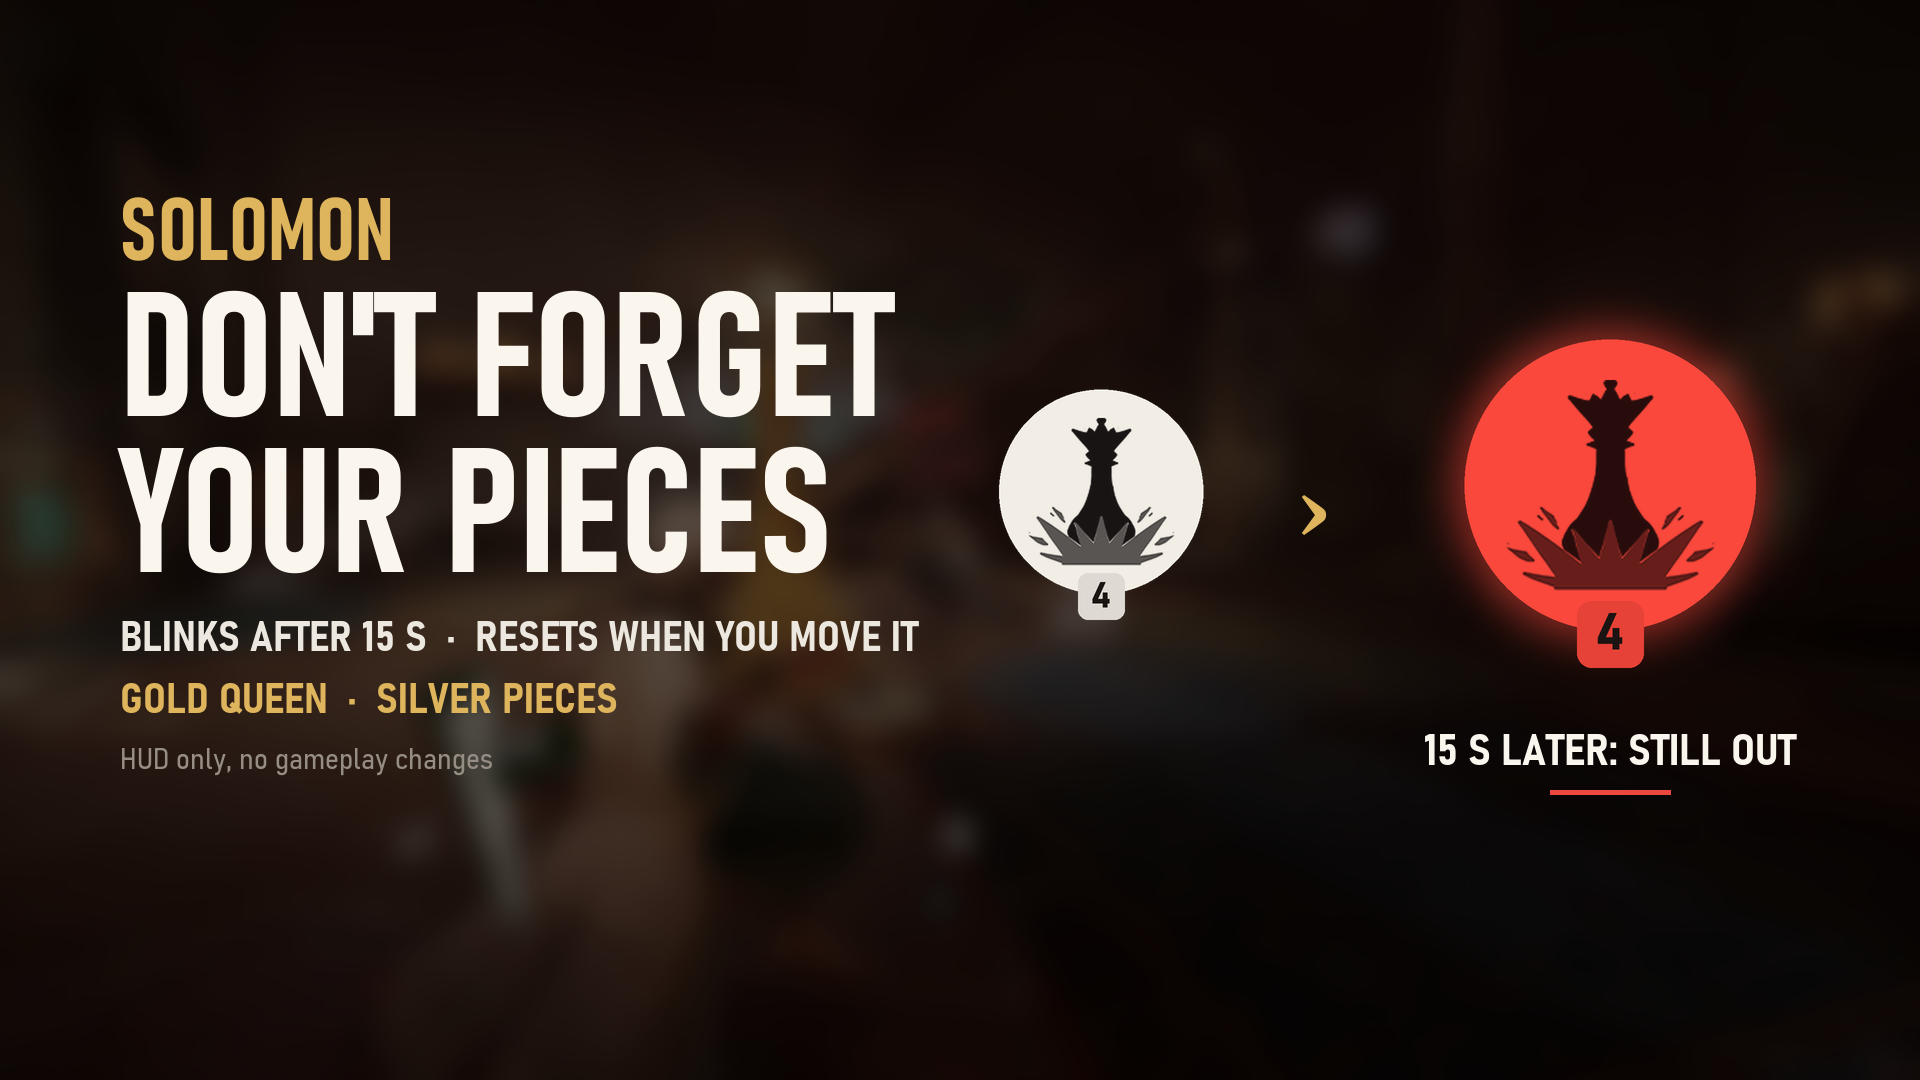
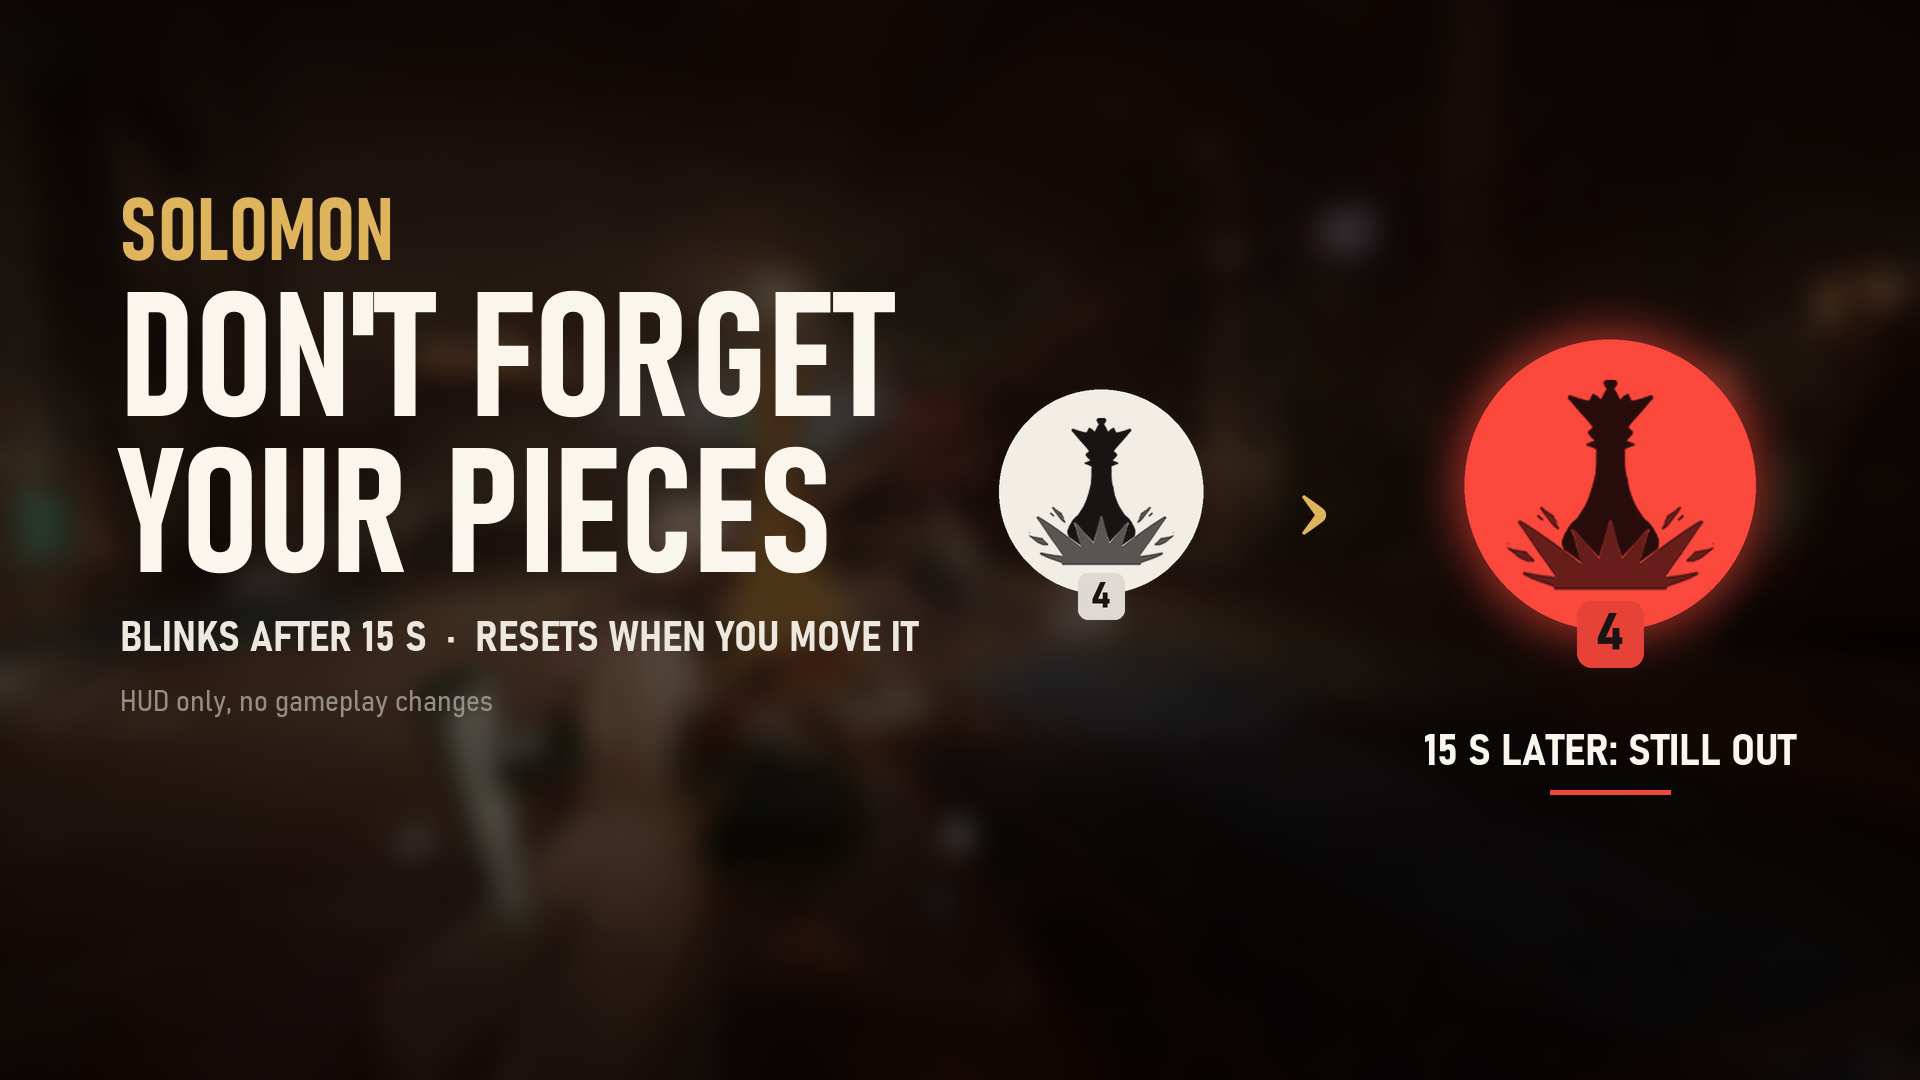
Cover without the gold queen / silver pieces line

Changed region(s): [[0.0625, 0.6111, 0.3438, 0.7333]]

diff --git a/showcase/make_cover.py b/showcase/make_cover.py
@@ -17,7 +17,7 @@ F = Path(r"C:\Windows\Fonts")
 
 TITLE = "Don't Forget Your Pieces"
 KICKER = "SOLOMON  ·  HUD MOD"
-SUB = "Icon blinks red after 15 s of an unused piece.  Gold Queen, silver pieces."
+SUB = "Icon blinks red after 15 s of an unused piece."
 CREAM = (246, 236, 214)
 GOLD = (222, 180, 92)
 RED = (236, 72, 64)
@@ -265,11 +265,8 @@ def style_e(w, h):
         d.text((x, y), line, font=tf, fill=(250, 246, 238))
         y += int(ts * 0.9)
     y += int(28 * k)
-    sf = bahn(int(42 * k), "Bold SemiCondensed")
     d.text((x, y), "BLINKS AFTER 15 S  ·  RESETS WHEN YOU MOVE IT", font=fit_font_var(d, "BLINKS AFTER 15 S  ·  RESETS WHEN YOU MOVE IT", int(42 * k), w - 2 * x), fill=(236, 232, 224))
-    y += int(62 * k)
-    d.text((x, y), "GOLD QUEEN  ·  SILVER PIECES", font=sf, fill=GOLD)
-    y += int(66 * k)
+    y += int(70 * k)                             # строка «GOLD QUEEN · SILVER PIECES» убрана: цвета фигур переехали в Neon Squares
     d.text((x, y), "HUD only, no gameplay changes", font=bahn(int(30 * k), "SemiLight SemiCondensed"), fill=(150, 142, 132))
     # пиктограммы: обычная (приглушённая) -> мигающая (с красным свечением)
     big = int((440 if square else 540) * k)
